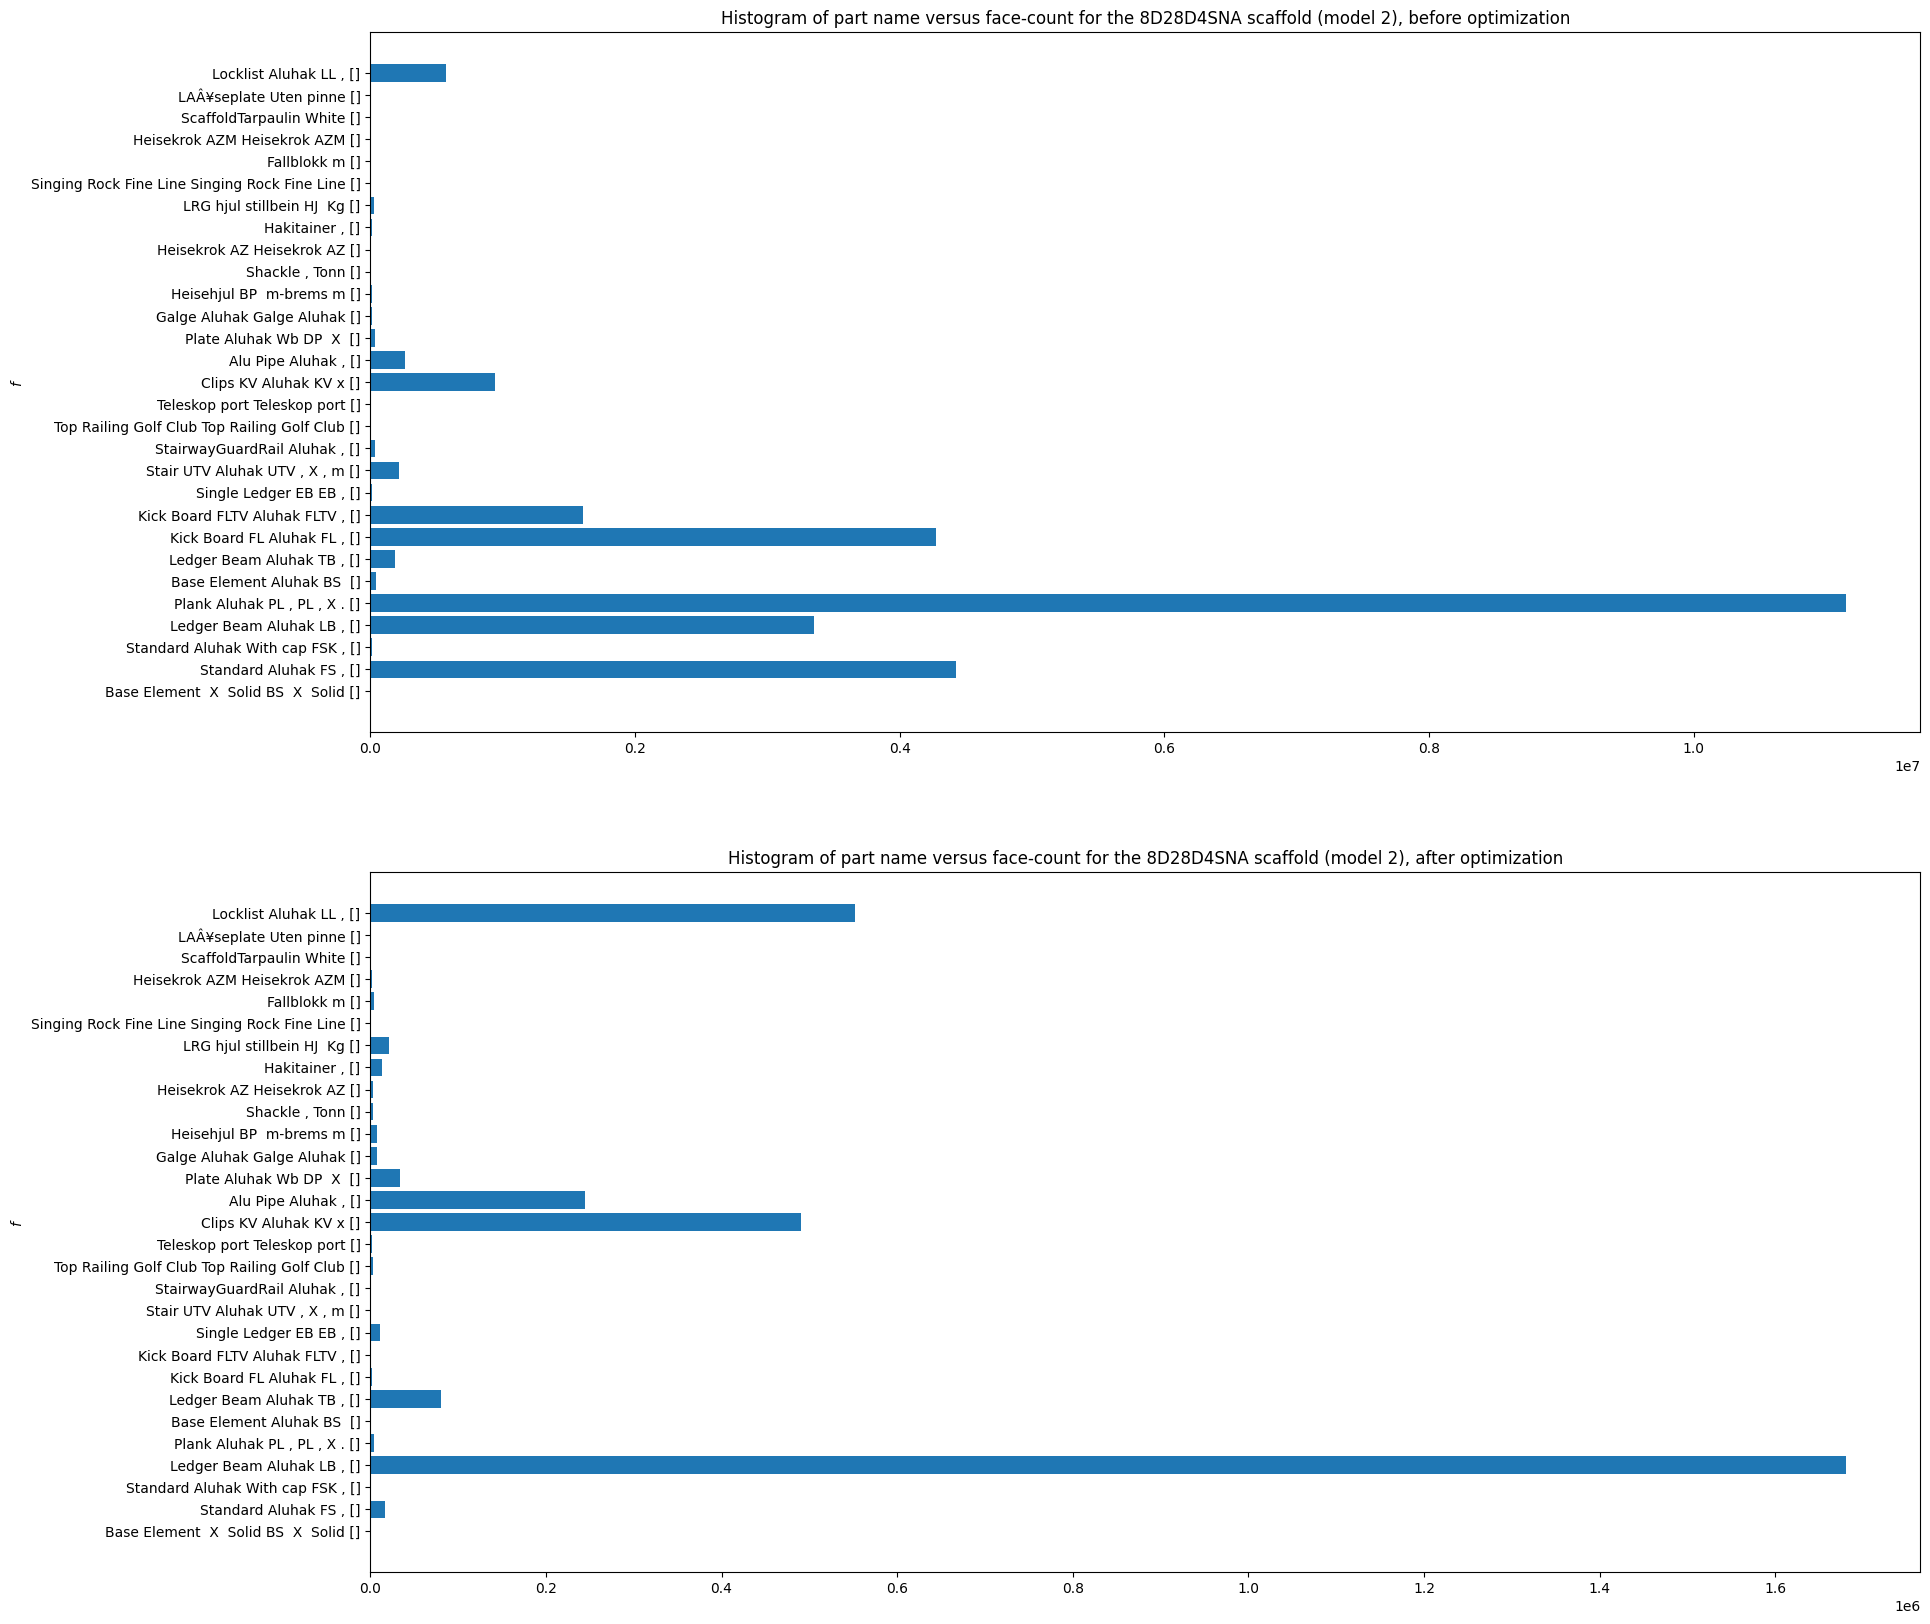
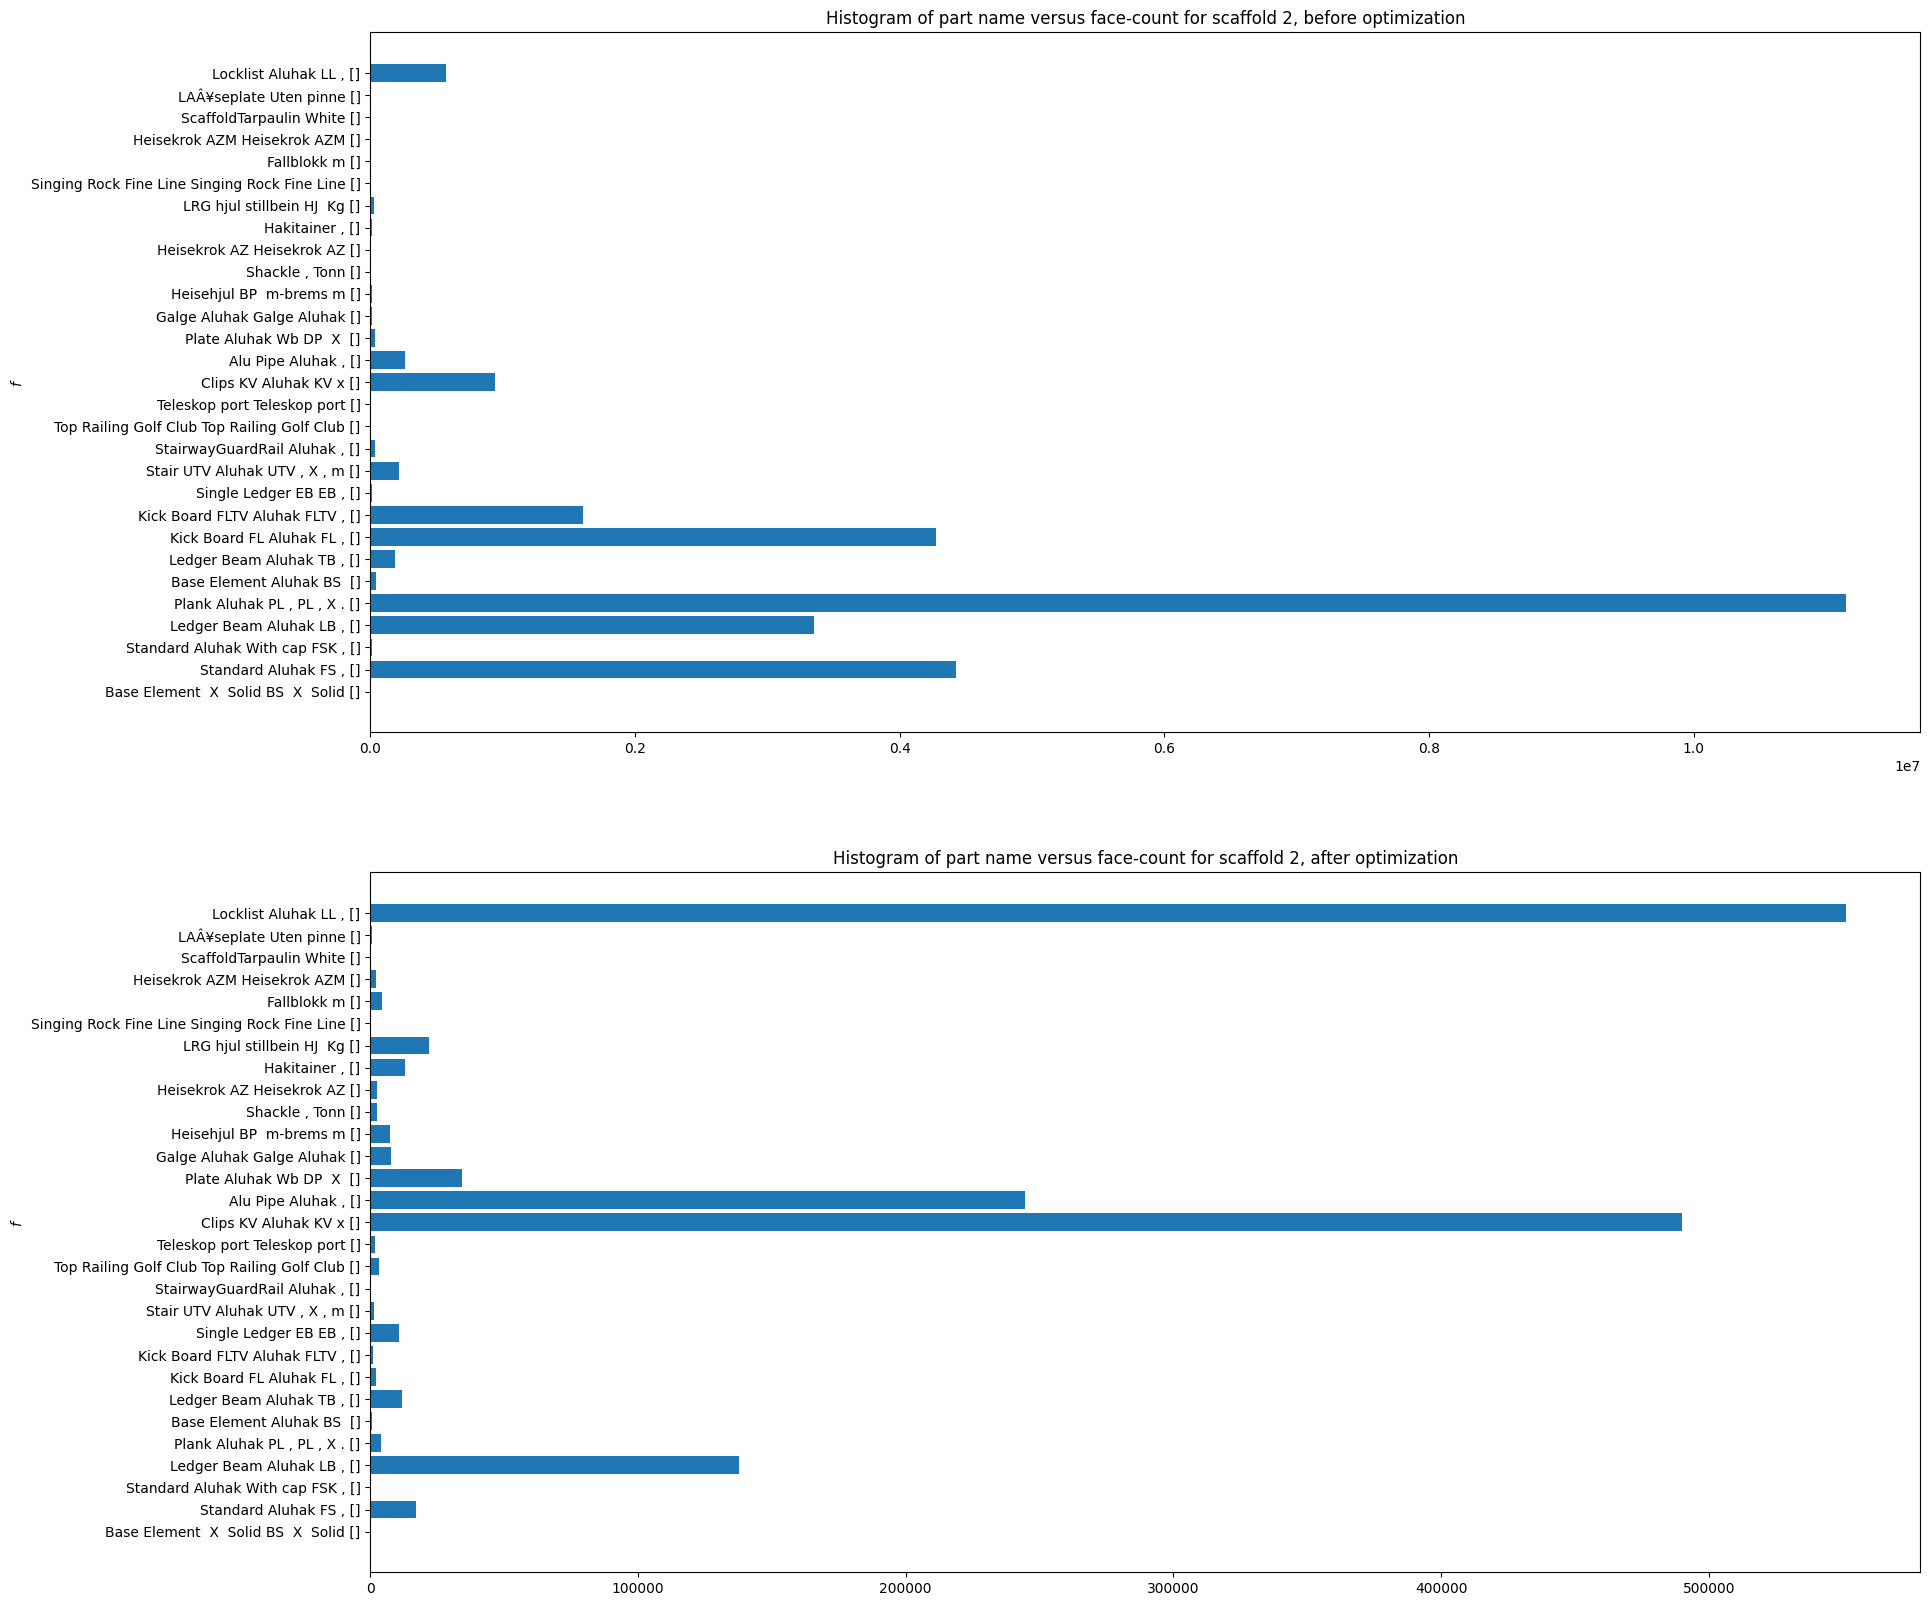
Add separate geometry optimization for scaffold guards and stairs

diff --git a/CadRevealFbxProvider/FbxProvider.cs b/CadRevealFbxProvider/FbxProvider.cs
@@ -608,7 +608,38 @@ public class FbxProvider : IModelFormatProvider
             triangleCountAfter += reducedMeshAndTriCount.triangleCount;
             histogramValues[histogramIndex] = (histogramValues[histogramIndex].fb, histogramValues[histogramIndex].fa + reducedMeshAndTriCount.triangleCount);
         }
-        else if (name.Contains("FS") || name.Contains("Stair") || name.Contains("Base Element"))
+        else if (name.Contains("StairwayGuard"))
+        {
+            var reducedMeshAndTriCount = ConvertToDecimatedMesh(inputMesh, 0.01f);
+            reducedMesh = reducedMeshAndTriCount.mesh;
+            triangleCountAfter+= reducedMeshAndTriCount.triangleCount;
+            histogramValues[histogramIndex] = (histogramValues[histogramIndex].fb, histogramValues[histogramIndex].fa + reducedMeshAndTriCount.triangleCount);
+        }
+        else if (name.Contains("Stair"))
+        {
+            Mesh[] disjointMeshes = MeshUtils.SplitDisjointPieces(inputMesh);
+            // We make the assumption that the larges element will be stair supports and will have a bounding box that encompass all other parts.
+            // Hence, we only want to decimate it and not use AABB or convex hull
+            var indexMaxVol = disjointMeshes
+                .Select((m, i) => new { m, i })
+                .OrderByDescending(v =>
+                {
+                    Vector3 ext = v.m.CalculateAxisAlignedBoundingBox(Matrix4x4.Identity).Extents;
+                    return ext.X * ext.Y * ext.Z; // Volume
+                })
+                .First().i;
+            var reducedDisjointMeshes = new List<Mesh>();
+            for (int i = 0; i < disjointMeshes.Length; i++)
+            {
+                var disjointMesh = disjointMeshes[i];
+                (Mesh mesh, int triangleCount) reducedMeshAndTriCount = (i == indexMaxVol) ? ConvertToDecimatedMesh(disjointMesh) : ConvertToBoundingBox(disjointMesh);
+                reducedDisjointMeshes.Add(reducedMeshAndTriCount.mesh);
+                triangleCountAfter += reducedMeshAndTriCount.triangleCount;
+                histogramValues[histogramIndex] = (histogramValues[histogramIndex].fb, histogramValues[histogramIndex].fa + reducedMeshAndTriCount.triangleCount);
+            }
+            reducedMesh = CombineMeshes(reducedDisjointMeshes.ToArray(), inputMesh.Error);
+        }
+        else if (name.Contains("FS") || name.Contains("Base Element"))
         {
             Mesh[] disjointMeshes = MeshUtils.SplitDisjointPieces(inputMesh);
             var reducedDisjointMeshes = new List<Mesh>();

diff --git a/spikes/2024-06-07-OptimizeScaffoldGeometry.md b/spikes/2024-06-07-OptimizeScaffoldGeometry.md
@@ -73,7 +73,7 @@ Increasing from 80 741 to 345 261 faces by including more accurate staircases is
 In the following, we will use key strings within the part names to identify which optimization method to use. Also note that parts, such as scaffold spears (FS), will contain geometries that are disjoint. We have implemented an algorithm that can separate out the disjoint parts, such that they can be optimized separately and then be rejoined. The table below shows the first attempt:
 
 | Key string                  | Optimization                                                                                    |
-+-----------------------------+-------------------------------------------------------------------------------------------------+
+|-----------------------------|-------------------------------------------------------------------------------------------------|
 | Plank                       | These are the boards of the scaffold and are replaced by axis aligned bounding boxes.           |
 | FS, Stair, Base Element     | Spears, stairs, and base elements are first disjoined and then replaced by convex hulls.        |
 | Beam                        | Ledger beams are replaced by ledger beams drawn by RvmSharp, based on their bounding boxes.     |
@@ -88,6 +88,32 @@ The screenshot below shows the optimized result. Specifically, the ledger beams 
 
 ![Optimized scaffold 2 with the above optimization strategies](./images/OptimizeScaffoldGeometry/figure11.png)
 
+We now attempt to fix the stairway guards by utilizing only decimation, as well as to split the stairs into their separate parts, and using decimation for the largest part by volume, where the remaining parts are replaced by axis aligned bounding boxes. It is then assumed that the part with the largest bounding box volume will encompass all other parts of the stairs either fully or partially and that the smaller parts are well approximated by bounding boxes (e.g., the steps and the planks of the staircase). This assumption may not hold for all stairs and should be looked into closer for a real implementation, but perhaps using a similar principle of selection. The updated key strings and their associated optimization methods are listed below:
+
+| Key string                  | Optimization                                                                                      |
+|-----------------------------|---------------------------------------------------------------------------------------------------|
+| Plank                       | These are the boards of the scaffold and are replaced by axis aligned bounding boxes.             |
+| FS, Base Element            | Spears, and base elements are first disjoined and then replaced by convex hulls.                  |
+| Stair                       | The largest volume part is decimates, while the rest are replaced by axis aligned bounding boxes. |
+| Beam                        | Ledger beams are replaced by ledger beams drawn by RvmSharp, based on their bounding boxes.       |
+| Kick board, BRM             | Kick boards and feet of spears are converted to convex hulls.                                     |
+| StairwayGuard               | Decimated using the gradient space reduce algorithm based on minimum distance.                    |
+| **The rest**                | Other parts are decimated using the gradient space reduce algorithm based on minimum distance.    |
+
+With these optimization strategies we find a reduction of faces for scaffold 2 to 1 607 683 faces, which yields a 94.10% reduction. This is only a slight increase compared to when stairs and their guards were represented by convex hulls.
+
+![Histrogram of face-count for optimized scaffold 2 with the above optimization strategies](./images/OptimizeScaffoldGeometry/figure12.png)
+
+The corresponding scaffold is shown below:
+
+![Optimized scaffold 2 with the above optimization strategies](./images/OptimizeScaffoldGeometry/figure13.png)
+
 ## Conclusion
 
+We have tried coarse geometry optimization by applying axis aligned bounding boxes for all parts, as well as convex hull for all parts. These were able to reduce face counts from the order of 27M down to between 60k and 80k faces, but yielded too poor quality of the resulting scaffolds.
+
+The best strategy was found to be by using different optimization strategies based on part name, where we used a combination of axis aligned bounding boxes, convex hulls, mesh decimation, and drawing lower resolution shapes that resemble the originals. We also divided parts into their respective disjoint parts and used geometric criteria to chose optimization methods. Using this, we could reduce face counts from the order of 27M to 1.6M, while still retaining a very detailed view of the scaffolds. However, by continuing this strategy, it should be possible to reduce the face count even further with decent details of the optimized scaffolds.
+
 ## Next steps
+
+Create a proper implementation based on the code and findings of the spike, using the same strategy as recommended in the conclusion. To achieve this, a more detailed overview of the scaffold parts must be made based on the scaffolds catalogues such that a secure optimization can be made. For example, it may be that some stairs consist of two large-volume parts which bounding boxes both cover smaller parts of the stairs. In that case, it would not suffice to only exclude the one part with largest bounding box from bounding box conversion, as done in the spike.
